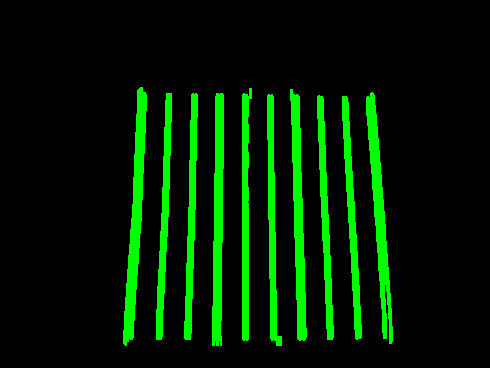
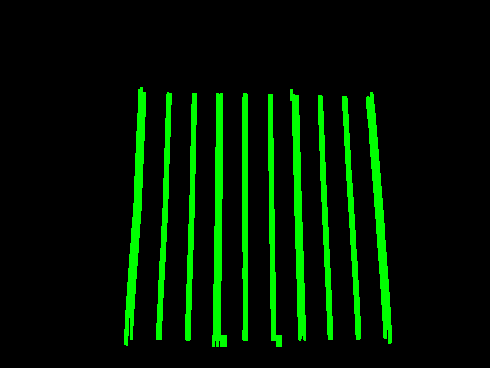
Added Cenroid Processing

diff --git a/src/com/williampan/sudokuocr/imageprocessing/ImageProcessor.java b/src/com/williampan/sudokuocr/imageprocessing/ImageProcessor.java
@@ -2,6 +2,8 @@ package com.williampan.sudokuocr.imageprocessing;
 
 import java.io.File;
 import java.util.ArrayList;
+import java.util.Collections;
+import java.util.Comparator;
 
 import org.opencv.core.Core;
 import org.opencv.core.CvType;
@@ -15,6 +17,7 @@ import org.opencv.core.Scalar;
 import org.opencv.core.Size;
 import org.opencv.highgui.Highgui;
 import org.opencv.imgproc.Imgproc;
+import org.opencv.imgproc.Moments;
 
 public class ImageProcessor {
 	
@@ -38,6 +41,7 @@ public class ImageProcessor {
 		Mat andImage = Mat.zeros(maskedImage.size(), CvType.CV_8UC3);
 		Core.bitwise_and(vertImage, horImage, andImage);
 		Highgui.imwrite("afterBitAnd.png", andImage);
+		findCentroids(andImage, maskedImage);
 	}
 	
 	/**
@@ -150,13 +154,13 @@ public class ImageProcessor {
 		Mat processedImage = new Mat(image.size(), Core.DEPTH_MASK_ALL);
 		Imgproc.cvtColor(image, processedImage, Imgproc.COLOR_BGR2GRAY);
 		// Guassian blur
-		Imgproc.GaussianBlur(processedImage, processedImage, new Size(5,5), 0);	
+		//Imgproc.GaussianBlur(processedImage, processedImage, new Size(5,5), 0);	
 		
 		// Kernel to morph line thickness
 		Mat kernel = Imgproc.getStructuringElement(Imgproc.MORPH_RECT, new Size(2,10));
 		// Process image so that vertical lines can be found
 		Highgui.imwrite("beforesobel.png", processedImage);
-		Imgproc.Sobel(processedImage, processedImage, CvType.CV_64F, 1, 0);
+		Imgproc.Sobel(processedImage, processedImage, CvType.CV_16S, 1, 0);
 		Core.convertScaleAbs(processedImage, processedImage);
 		Core.normalize(processedImage, processedImage, 0, 255, Core.NORM_MINMAX);
 		Highgui.imwrite("beforethresh.png", processedImage);
@@ -194,17 +198,19 @@ public class ImageProcessor {
 		Mat processedImage = new Mat(image.size(), Core.DEPTH_MASK_ALL);
 		Imgproc.cvtColor(image, processedImage, Imgproc.COLOR_BGR2GRAY);
 		// Guassian blur
-		Imgproc.GaussianBlur(processedImage, processedImage, new Size(5,5), 0);	
+		//Imgproc.GaussianBlur(processedImage, processedImage, new Size(5,5), 0);	
 		
 		// Kernel to morph line thickness
 		Mat kernel = Imgproc.getStructuringElement(Imgproc.MORPH_RECT, new Size(10,2));
-		// Process image so that vertical lines can be found
+		// Process image so that vertical lines can be found.
+		Highgui.imwrite("beforehorizontalsobel.png", processedImage);
 		Imgproc.Sobel(processedImage, processedImage, CvType.CV_8U, 0, 2);
+		Highgui.imwrite("afterhorizontalsobel.png", processedImage);
 		Core.convertScaleAbs(processedImage, processedImage);
 		Core.normalize(processedImage, processedImage, 0, 255, Core.NORM_MINMAX);
-		Imgproc.threshold(processedImage, processedImage, 0, 255, Imgproc.THRESH_BINARY+Imgproc.THRESH_OTSU);
+		Imgproc.threshold(processedImage, processedImage, 0, 255, Imgproc.THRESH_BINARY + Imgproc.THRESH_OTSU);
 		Highgui.imwrite("beforehorizontalmorph.png", processedImage);
-		Imgproc.morphologyEx(processedImage, processedImage, Imgproc.MORPH_DILATE, kernel);	
+		Imgproc.morphologyEx(processedImage, processedImage, Imgproc.MORPH_DILATE, kernel);
 		Highgui.imwrite("afterhorizontalmorph.png", processedImage);
 		
 		// Find all contours in processedprocessedImage
@@ -227,4 +233,68 @@ public class ImageProcessor {
 		//Imgproc.morphologyEx(lineImage, lineImage, Imgproc.MORPH_CLOSE, kernelzero);
 		Highgui.imwrite("afterHoriztonal.png", lineImage);
 	}
+	
+	/**
+	 * Generatre centroids at intersections of sudoku lines
+	 * @param image Image of and between horizontal and vertical lines
+	 * @param originalImage Image to draw centroids onto
+	 * @return ArrayList of centroids
+	 */
+	private ArrayList<Point> findCentroids(Mat image, Mat originalImage){
+		// Image preproccesing
+		Mat processedImage = new Mat(image.size(), Core.DEPTH_MASK_ALL);
+		Imgproc.cvtColor(image, processedImage, Imgproc.COLOR_BGR2GRAY);
+		// Morph inconsistencies
+		Mat kernel = Imgproc.getStructuringElement(Imgproc.MORPH_RECT, new Size(5,5));
+		Imgproc.morphologyEx(processedImage, processedImage, Imgproc.MORPH_DILATE, kernel);
+		Highgui.imwrite("afterCentroidMorph.png", processedImage);
+		// Find all contours in Image
+		ArrayList<MatOfPoint> contours = new ArrayList<MatOfPoint>();
+		Imgproc.findContours(processedImage, contours, new Mat(), Imgproc.RETR_LIST, Imgproc.CHAIN_APPROX_SIMPLE);
+		
+		ArrayList<Point> centroids = new ArrayList<Point>();
+		for (MatOfPoint contour : contours){
+			Moments moment = Imgproc.moments(contour);
+			int x = (int)(moment.get_m10()/moment.get_m00());
+			int y = (int)(moment.get_m01()/moment.get_m00());
+			Point circleCentre = new Point(x,y);
+			Core.circle(originalImage, circleCentre, 4, new Scalar(0,255,0));
+			centroids.add(circleCentre);
+		}
+		
+		//Sorting centroids by order
+		Collections.sort(centroids, new Comparator<Point>() {
+				@Override
+				public int compare(Point point1, Point point2) {
+					// Not same line
+					if (Math.abs(point2.y - point1.y) > 10){
+						// Compare y values
+						if (point2.y > point1.y){
+							return -1;
+						}
+						return 1;
+					}
+					// Same line
+					else{
+						// Compare x values
+						if (point2.x > point1.x){
+							return -1;
+						}
+						return 1;
+					}
+				}
+		    });	
+		
+		// Display Centroids on image
+		int count = 0;	
+		for (Point point : centroids){
+			System.out.println(count + ": " + point.x + "," + point.y);
+			Core.putText(originalImage, String.valueOf(count), point, Core.FONT_HERSHEY_PLAIN, 1.0, new Scalar(0,0,255));
+			count += 1;
+		}
+		Highgui.imwrite("afterCentroids.png", originalImage);
+		
+		return centroids;
+	}
+	
 }
